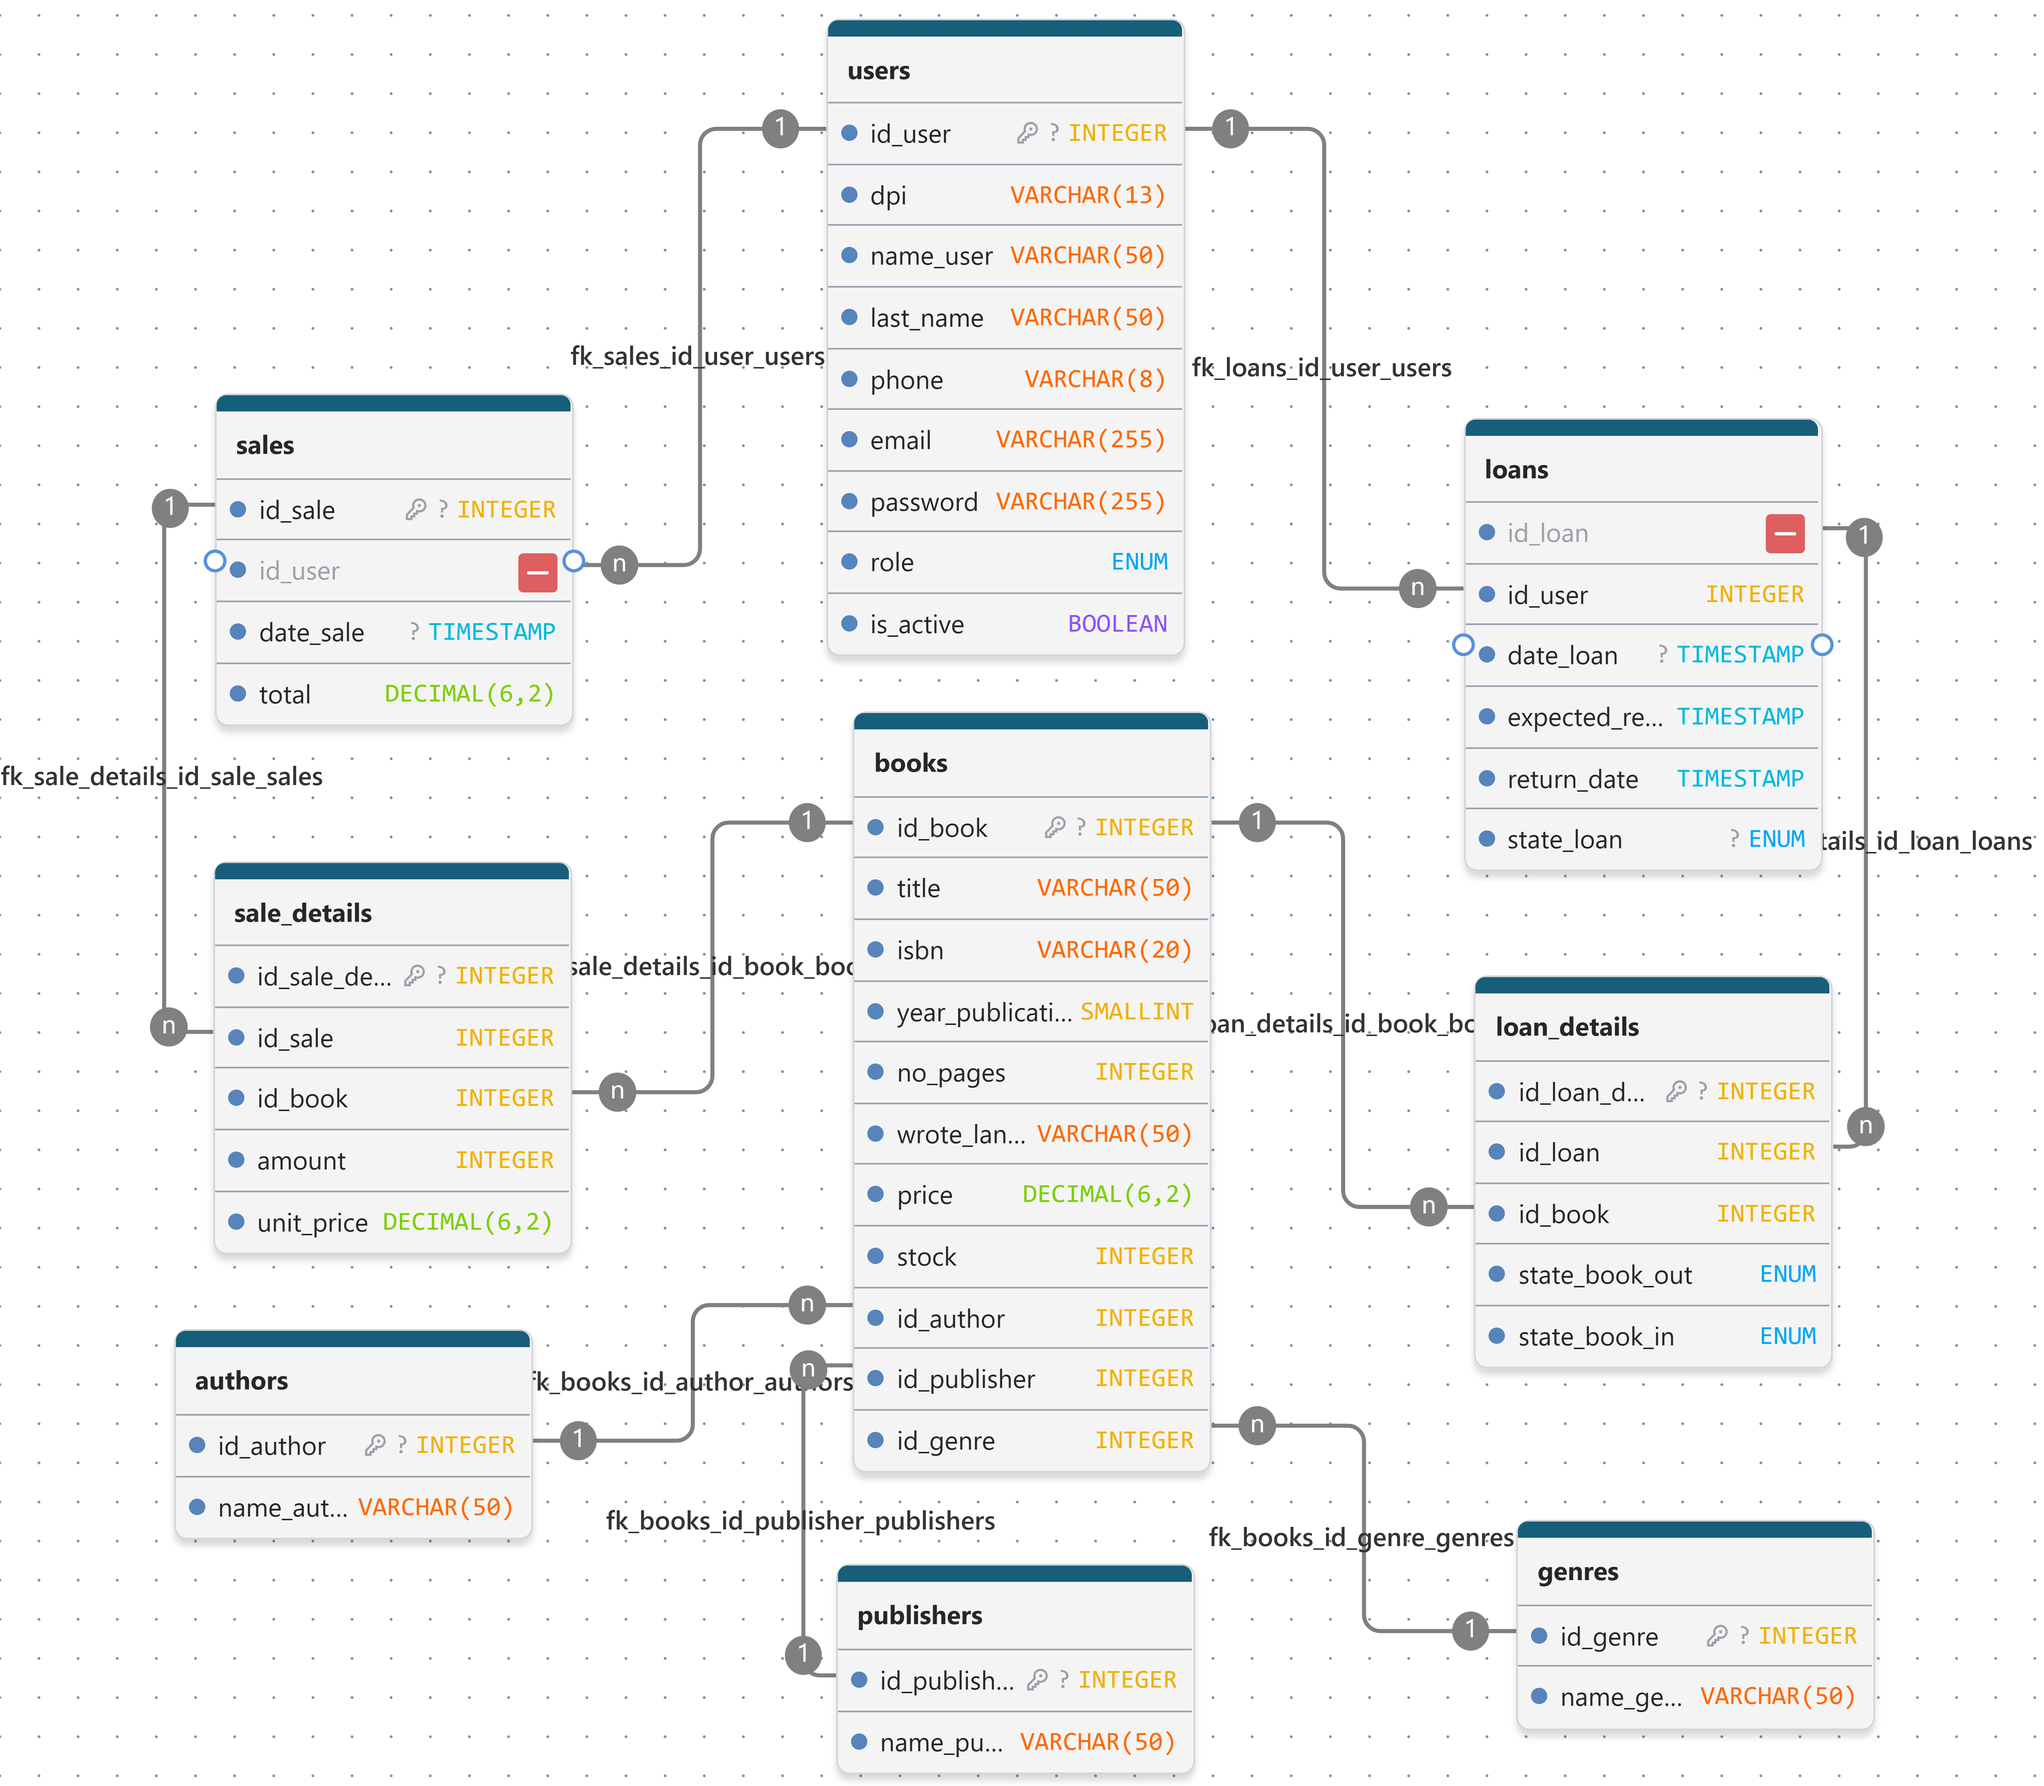
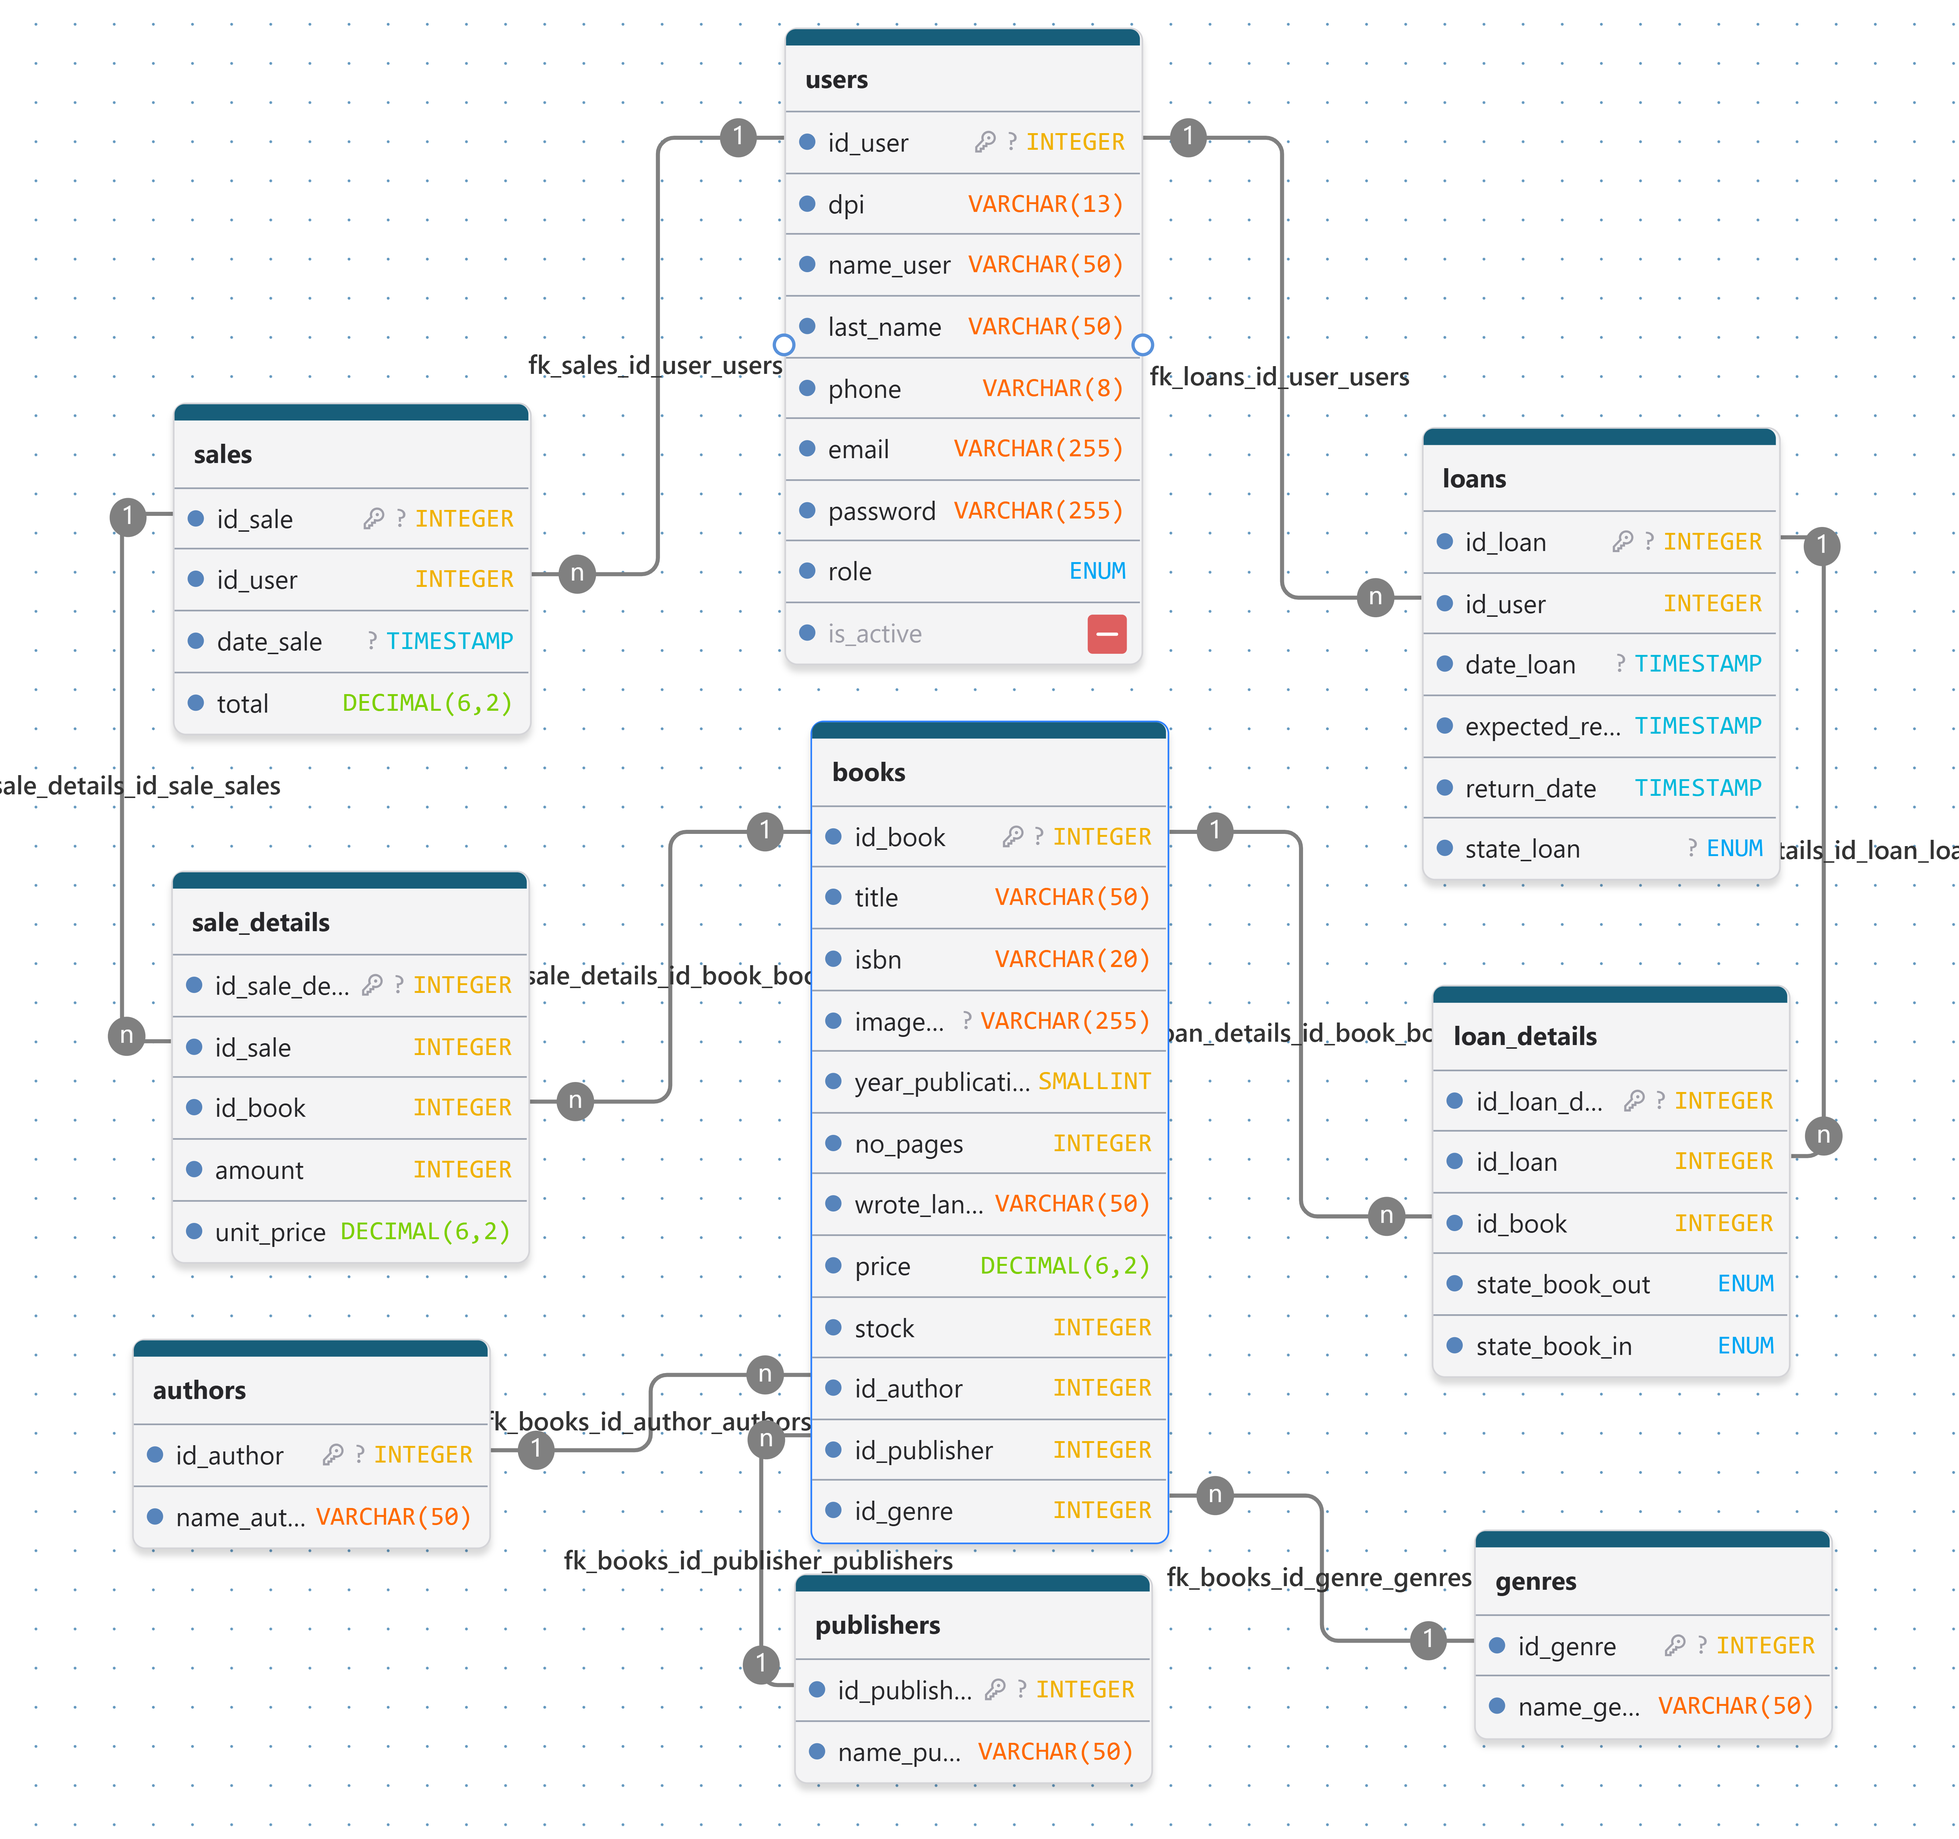
feat(book): Update table books adding new columnd img

Changed region(s): [[0.0, 0.0, 1.0, 1.0], [0.6229, 0.2812, 0.654, 0.3125]]

diff --git a/src/models/book.model.js b/src/models/book.model.js
@@ -4,7 +4,7 @@ export class BookModel {
     }
 
     async findAll() {
-        const query = `SELECT B.id_book AS id, B.title, B.isbn, B.year_publication, B.no_pages, B.wrote_language,
+        const query = `SELECT B.id_book AS id, B.title, B.isbn, B.image_url, B.year_publication, B.no_pages, B.wrote_language,
             B.price, B.stock, B.id_genre, B.id_publisher, B.id_author,
             G.name_genre, P.name_publisher, A.name_author
             FROM books B
@@ -17,7 +17,7 @@ export class BookModel {
     }
 
     async findById(id) {
-        const query = `SELECT B.id_book AS id, B.title, B.isbn, B.year_publication, B.no_pages, B.wrote_language,
+        const query = `SELECT B.id_book AS id, B.title, B.isbn, B.image_url, B.year_publication, B.no_pages, B.wrote_language,
             B.price, B.stock, B.id_genre, B.id_publisher, B.id_author,
             G.name_genre, P.name_publisher, A.name_author
             FROM books B
@@ -30,11 +30,12 @@ export class BookModel {
     }
 
     async create(data) {
-        const query = `INSERT INTO books (title, isbn, year_publication, no_pages, wrote_language, price, stock, id_genre, id_publisher, id_author)
-            VALUES (?, ?, ?, ?, ?, ?, ?, ?, ?, ?)`;
+        const query = `INSERT INTO books (title, isbn, image_url, year_publication, no_pages, wrote_language, price, stock, id_genre, id_publisher, id_author)
+            VALUES (?, ?, ?, ?, ?, ?, ?, ?, ?, ?, ?)`;
         const [result] = await this.pool.query(query, [
             data.title,
             data.isbn,
+            data.image_url || null,
             data.year_publication,
             data.no_pages,
             data.wrote_language,
@@ -51,6 +52,7 @@ export class BookModel {
         const query = `UPDATE books SET
             title = IFNULL(?, title),
             isbn = IFNULL(?, isbn),
+            image_url = CASE WHEN ? = '' THEN NULL ELSE IFNULL(?, image_url) END,
             year_publication = IFNULL(?, year_publication),
             no_pages = IFNULL(?, no_pages),
             wrote_language = IFNULL(?, wrote_language),
@@ -63,6 +65,8 @@ export class BookModel {
         await this.pool.query(query, [
             data.title ?? null,
             data.isbn ?? null,
+            data.image_url ?? null,
+            data.image_url ?? null,
             data.year_publication ?? null,
             data.no_pages ?? null,
             data.wrote_language ?? null,

diff --git a/src/validators/book.validator.js b/src/validators/book.validator.js
@@ -11,6 +11,11 @@ export const createBookValidator = [
         .notEmpty().withMessage('El ISBN es obligatorio')
         .isISBN().withMessage('El ISBN debe ser válido'),
 
+    body('image_url')
+        .optional({ nullable: true, checkFalsy: true })
+        .isLength({ max: 2048 }).withMessage('La URL de la portada no puede superar los 2048 caracteres')
+        .isURL({ protocols: ['http', 'https'], require_protocol: true }).withMessage('La URL de la portada debe comenzar con http:// o https://'),
+
     body('year_publication')
         .isInt({ min: 1800, max: new Date().getFullYear() }).withMessage('El año de publicación debe ser un entero positivo válido'),
 
@@ -50,6 +55,11 @@ export const updateBookValidator = [
         .optional({ nullable: true })
         .trim()
         .isISBN().withMessage('El ISBN debe ser válido'),
+
+    body('image_url')
+        .optional({ nullable: true, checkFalsy: true })
+        .isLength({ max: 2048 }).withMessage('La URL de la portada no puede superar los 2048 caracteres')
+        .isURL({ protocols: ['http', 'https'], require_protocol: true }).withMessage('La URL de la portada debe comenzar con http:// o https://'),
 
     body('year_publication')
         .optional({ nullable: true })

diff --git a/src/dtos/book.dto.js b/src/dtos/book.dto.js
@@ -3,6 +3,7 @@ export class BookDTO {
         this.id = data.id !== undefined ? Number(data.id) : undefined;
         this.title = data.title ?? '';
         this.isbn = data.isbn ?? '';
+        this.image_url = data.image_url ?? null;
         this.year_publication = data.year_publication ?? '';
         this.no_pages = data.no_pages ?? '';
         this.wrote_language = data.wrote_language ?? '';
